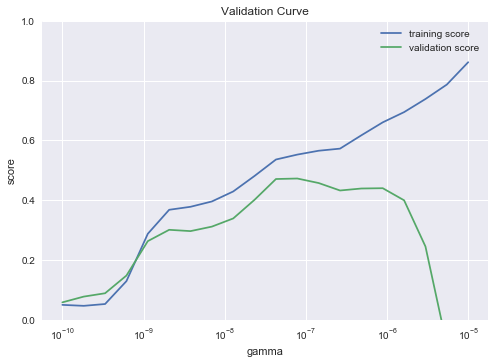
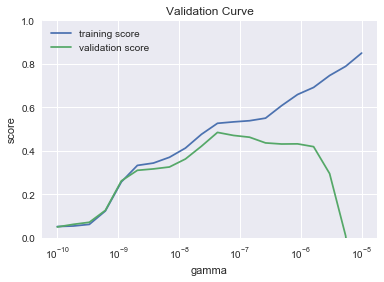
Added exploration space for users

diff --git a/_chapters/01/1/example_fitting_time_series.md b/_chapters/01/1/example_fitting_time_series.md
@@ -127,7 +127,10 @@ Next we'll plot the data so we can get a quick idea of what we're working with.
 
 {:.input_area}
 ```python
-plt.errorbar(x=light_curve_df.index, y=light_curve_df['irradiance'], yerr=light_curve_df['uncertainty'], fmt='o')
+plt.errorbar(x=light_curve_df.index, 
+             y=light_curve_df['irradiance'], 
+             yerr=light_curve_df['uncertainty'], 
+             fmt='o')
 plt.title("t$_0$ = " + datetimeindex_to_human(light_curve_df.index)[0])
 plt.xlabel('time')
 plt.ylabel('irradiance [%]');
@@ -177,7 +180,7 @@ Here, we're just defining a quick helper function that we'll be using in the nex
 {:.input_area}
 ```python
 # Helper function for compatibility with validation_curve
-def jpm_svr(gamma=5e-8, **kwargs):
+def svr_pipe(gamma=5e-8, **kwargs):
     return make_pipeline(SVR(kernel='rbf', C=1e3, gamma=gamma, **kwargs))
 ```
 
@@ -214,7 +217,7 @@ shuffle_split = ShuffleSplit(n_splits=20, train_size=0.5, test_size=0.5, random_
 
 Now we can get to the validation curve. First we'll discuss the input, then run it, plot it, and discuss it. 
 
-The first input makes use of our earlier helper function, ```jpm_svr()```. All this function does is make a pipeline around the SVR function. Pipelines in scikit-learn are pretty nifty. They result in an object that has the same API as any other model type, but allow you to wrap up a whole bunch of different methods together. For example, you could wrap up a bunch of pre-processing like Impute in here. In this case, our helper function is just allowing us to input a variety of $\gamma$s in a single call to validation curve. 
+The first input makes use of our earlier helper function, ```svr_pipe()```. All this function does is make a pipeline around the SVR function. Pipelines in scikit-learn are pretty nifty. They result in an object that has the same API as any other model type, but allow you to wrap up a whole bunch of different methods together. For example, you could wrap up a bunch of pre-processing like Impute in here. In this case, our helper function is just allowing us to input a variety of $\gamma$s in a single call to validation curve. 
 
 The next inputs are just the X and y arrays. Pretty straight forward. Next we define the name of the parameter that is going to be varied: $\gamma$ in this case. Models other than SVR would have other hyperparameters and may even have more than one. Then we pass in that array of different $\gamma$s to vary. 
 
@@ -224,7 +227,7 @@ Next we've got a few optional inputs. ```cv``` is the cross-validation strategy.
 
 {:.input_area}
 ```python
-train_score, val_score = validation_curve(jpm_svr(), X, y,
+train_score, val_score = validation_curve(svr_pipe(), X, y,
                                           'svr__gamma',
                                           gamma, cv=shuffle_split, n_jobs=3, scoring=evs)
 ```
@@ -265,14 +268,25 @@ print('Best fit gamma: {}'.format(str(best_fit_gamma)))
 
 {:.output_stream}
 ```
-Scores: [ 0.05810709  0.07735265  0.08855199  0.14776661  0.26287847  0.30074971
-  0.29640407  0.31145192  0.33880241  0.4013065   0.47063705  0.47233082
-  0.4572113   0.43226532  0.438913    0.43992565  0.39942845  0.24488572
- -0.08454969 -1.04669821]
-Best score: 0.4723308172198826
-Best fit gamma: 7.847599703514607e-08
+Scores: [ 0.04951443  0.06154749  0.07106599  0.12581001  0.2614409   0.3100576
+  0.31646112  0.32533225  0.36214982  0.42087804  0.48439067  0.47046177
+  0.46230723  0.43604148  0.43099558  0.43167014  0.4187839   0.29498409
+  0.00914969 -0.54841982]
+Best score: 0.48439066930449953
+Best fit gamma: 4.281332398719396e-08
 
 ```
+
+## Explore!
+Here's a chance to play around with the tools you've seen so far. Here are some suggestions to try out: 
+* Try different ranges of gamma and see what happens to the plot. 
+* Try changing n_jobs to see how it affects processing time. Open up your Activity Monitor (macOS) or Task Manager (Windows) to see the multiple threads and their impact on your CPU usage. 
+* Try different scoring methods. You can import [any of these different regression metrics](http://scikit-learn.org/stable/modules/classes.html#regression-metrics) (follow the import example at the top of the notebook) and feed them to the `make_scorer()` above. 
+* Try a different number of splits (`n_splits`) in `ShuffleSplit()`.
+* Try different `train_size` and `test_size` in `ShuffleSplit()`. 
+* Try a totally different method of splitting the data between training and testing. You can import [any of these splitter classes](http://scikit-learn.org/stable/modules/classes.html#splitter-classes) (follow the import example at the top of the notebook) and use them in place of `ShuffleSplit()`.
+
+You can use the cells below (and add more if you like) to produce new plots/best fit numbers and compare them. Or just use the cells as a scratch space. You are now a human learning machine learning.
 
 ## Fitting the data
 
@@ -304,8 +318,15 @@ plt.legend(loc='best');
 
 
 
-![png](../../../images/chapters/01/1/example_fitting_time_series_34_0.png)
+![png](../../../images/chapters/01/1/example_fitting_time_series_35_0.png)
 
+
+## Explore!
+Here's another chance to see how your changes impact the final result: the fit to the data. Here's some suggestions: 
+* Input your favorite number as the `best_fit_gamma` and see how the fit does.
+* Try a different penalty parameter (`C`). The default value is 1.0. We used 1e3. 
+* Try a different kernel. You can use any of [these kernels](http://scikit-learn.org/stable/modules/generated/sklearn.svm.SVR.html). Warning: be careful with the 'linear' kernel because it can take a long time to fit depending on the other parameters.
+* Try modifying the `sample_weight` to see how that impacts the fit.
 
 ## Recap
 In this example, we've used a familiar goal -- fitting a time series -- as a way to introduce some common machine learning concepts. In particular, we introduced data cleaning (e.g., ```Impute```), training vs validation/prediction data sets (e.g., ```shuffle_split```), and validation (e.g., ```validation_curve```). 
